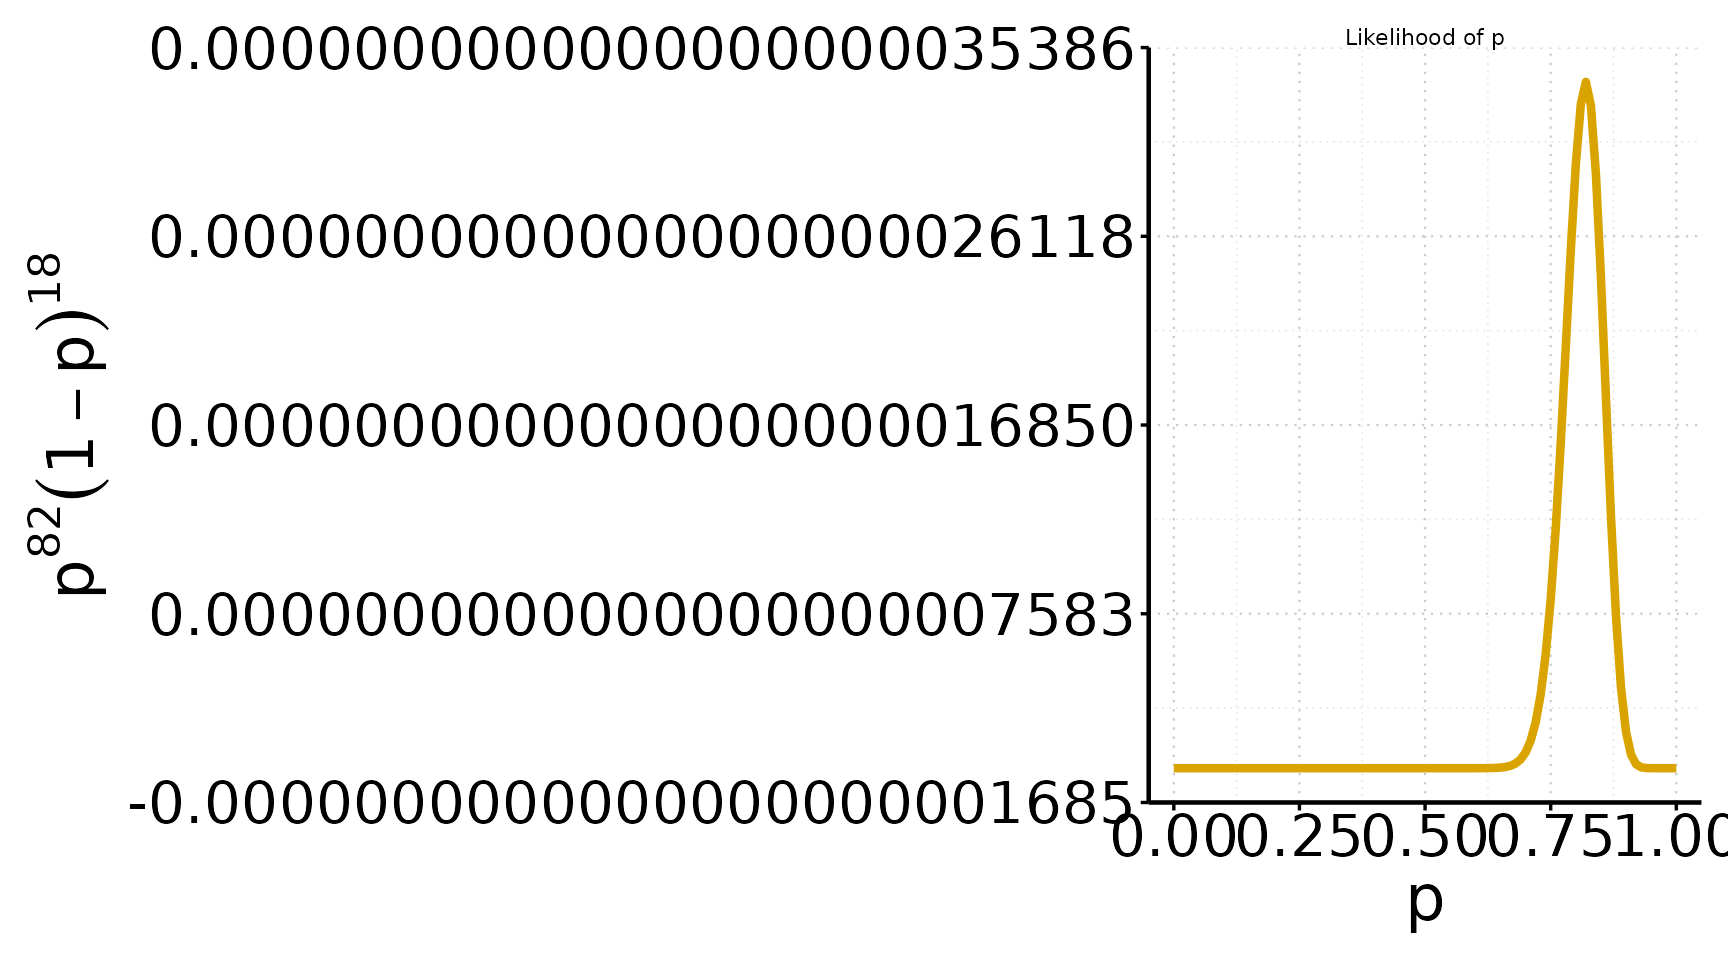
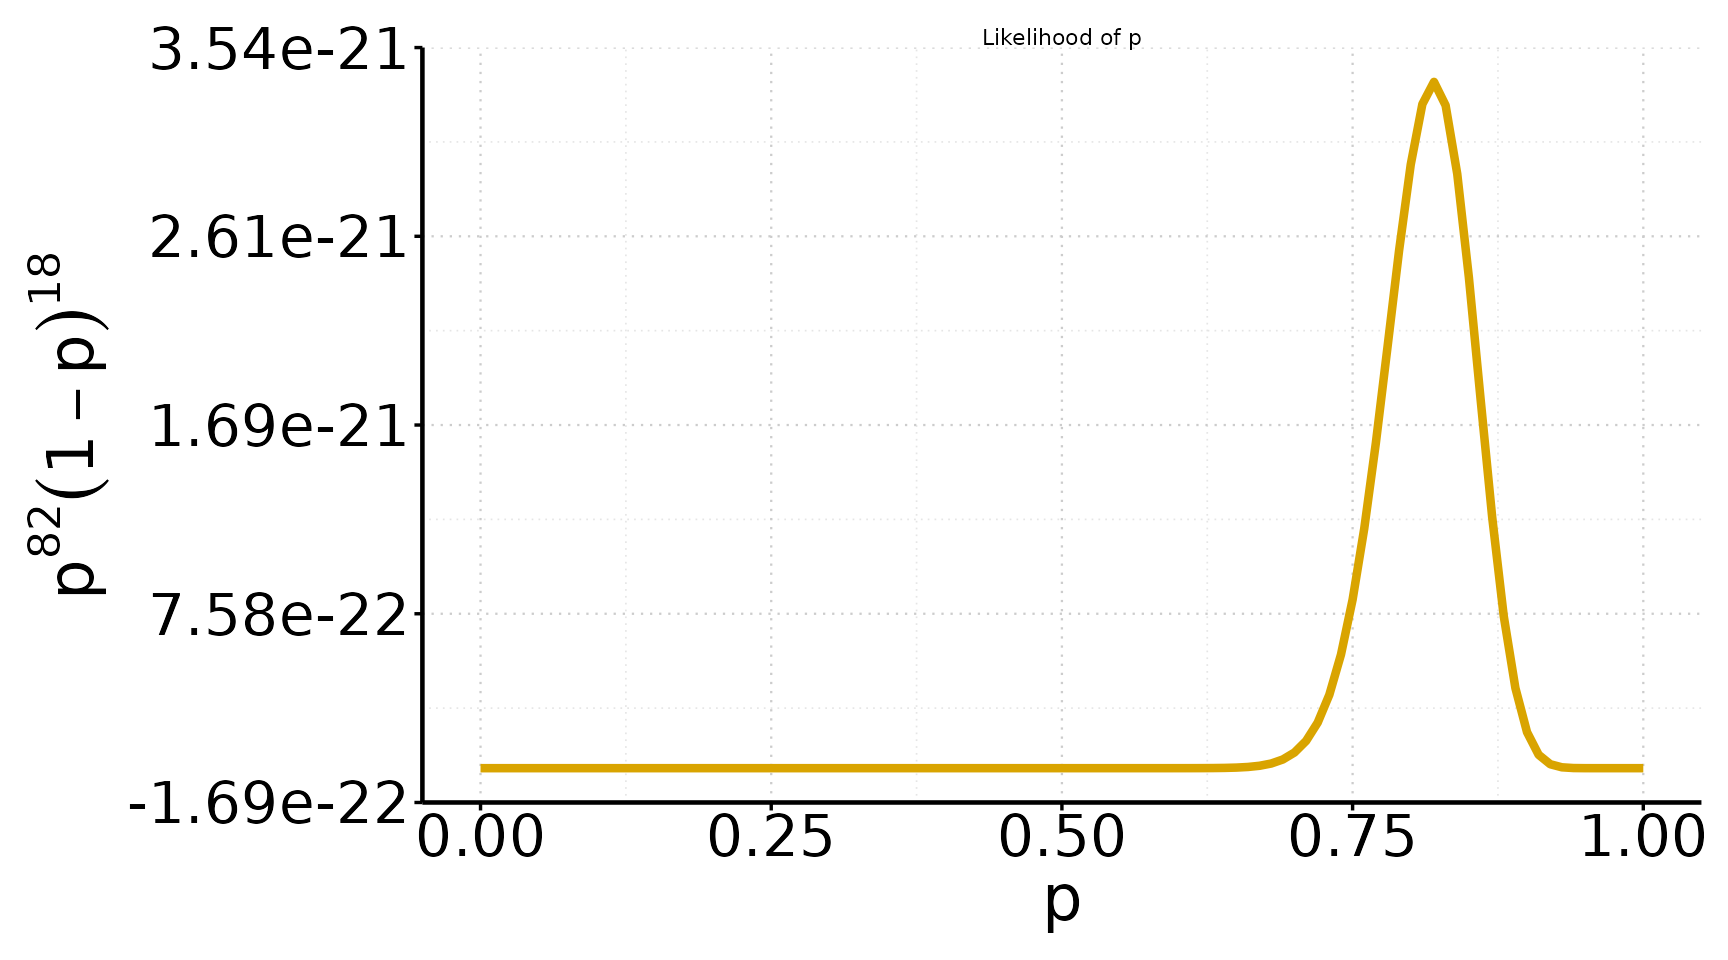
Update clases 2 y 3

diff --git a/slides/class_3/class_3.html b/slides/class_3/class_3.html
@@ -10,7 +10,7 @@
   <meta name="generator" content="quarto-1.9.38">
 
   <meta name="author" content="Mauricio Bucca · Sociología UC">
-  <meta name="dcterms.date" content="2026-07-28">
+  <meta name="dcterms.date" content="2026-08-16">
   <title>Análisis de Datos Categóricos (SOC3070)</title>
   <meta name="apple-mobile-web-app-capable" content="yes">
   <meta name="apple-mobile-web-app-status-bar-style" content="black-translucent">
@@ -32,9 +32,75 @@
       margin: 0 0.8em 0.2em -1em; /* quarto-specific, see https://github.com/quarto-dev/quarto-cli/issues/4556 */ 
       vertical-align: middle;
     }
+    /* CSS for syntax highlighting */
+    html { -webkit-text-size-adjust: 100%; }
+    pre > code.sourceCode { white-space: pre; position: relative; }
+    pre > code.sourceCode > span { display: inline-block; line-height: 1.25; }
+    pre > code.sourceCode > span:empty { height: 1.2em; }
+    .sourceCode { overflow: visible; }
+    code.sourceCode > span { color: inherit; text-decoration: inherit; }
+    div.sourceCode { margin: 1em 0; }
+    pre.sourceCode { margin: 0; }
+    @media screen {
+    div.sourceCode { overflow: auto; }
+    }
+    @media print {
+    pre > code.sourceCode { white-space: pre-wrap; }
+    pre > code.sourceCode > span { text-indent: -5em; padding-left: 5em; }
+    }
+    pre.numberSource code
+      { counter-reset: source-line 0; }
+    pre.numberSource code > span
+      { position: relative; left: -4em; counter-increment: source-line; }
+    pre.numberSource code > span > a:first-child::before
+      { content: counter(source-line);
+        position: relative; left: -1em; text-align: right; vertical-align: baseline;
+        border: none; display: inline-block;
+        -webkit-touch-callout: none; -webkit-user-select: none;
+        -khtml-user-select: none; -moz-user-select: none;
+        -ms-user-select: none; user-select: none;
+        padding: 0 4px; width: 4em;
+      }
+    pre.numberSource { margin-left: 3em;  padding-left: 4px; }
+    div.sourceCode
+      { color: #24292e;  }
+    @media screen {
+    pre > code.sourceCode > span > a:first-child::before { text-decoration: underline; }
+    }
+    code span { color: #24292e; } /* Normal */
+    code span.al { color: #ff5555; font-weight: bold; } /* Alert */
+    code span.an { color: #6a737d; } /* Annotation */
+    code span.at { color: #d73a49; } /* Attribute */
+    code span.bn { color: #005cc5; } /* BaseN */
+    code span.bu { color: #d73a49; } /* BuiltIn */
+    code span.cf { color: #d73a49; } /* ControlFlow */
+    code span.ch { color: #032f62; } /* Char */
+    code span.cn { color: #005cc5; } /* Constant */
+    code span.co { color: #6a737d; } /* Comment */
+    code span.cv { color: #6a737d; } /* CommentVar */
+    code span.do { color: #6a737d; } /* Documentation */
+    code span.dt { color: #d73a49; } /* DataType */
+    code span.dv { color: #005cc5; } /* DecVal */
+    code span.er { color: #ff5555; text-decoration: underline; } /* Error */
+    code span.ex { color: #d73a49; font-weight: bold; } /* Extension */
+    code span.fl { color: #005cc5; } /* Float */
+    code span.fu { color: #6f42c1; } /* Function */
+    code span.im { color: #032f62; } /* Import */
+    code span.in { color: #6a737d; } /* Information */
+    code span.kw { color: #d73a49; } /* Keyword */
+    code span.op { color: #24292e; } /* Operator */
+    code span.ot { color: #6f42c1; } /* Other */
+    code span.pp { color: #d73a49; } /* Preprocessor */
+    code span.re { color: #6a737d; } /* RegionMarker */
+    code span.sc { color: #005cc5; } /* SpecialChar */
+    code span.ss { color: #032f62; } /* SpecialString */
+    code span.st { color: #032f62; } /* String */
+    code span.va { color: #e36209; } /* Variable */
+    code span.vs { color: #032f62; } /* VerbatimString */
+    code span.wa { color: #ff5555; } /* Warning */
   </style>
   <link rel="stylesheet" href="class_3_files/libs/revealjs/dist/theme/quarto-2740581606dc327e82f18f789b69d8a0.css">
-  <link rel="stylesheet" href="../_shared/course.css">
+  <link rel="stylesheet" href="_shared/course.css">
   <script>window.backupDefine = window.define; window.define = undefined;</script><script src="https://cdn.jsdelivr.net/npm/katex@latest/dist/katex.min.js"></script>
   <script>document.addEventListener("DOMContentLoaded", function () {
  var mathElements = document.getElementsByClassName("math");
@@ -159,7 +225,7 @@ Mauricio Bucca · Sociología UC
 </div>
 </div>
 
-  <p class="date">2026-07-28</p>
+  <p class="date">2026-08-16</p>
 </section>
 <section id="antes-hoy-después" class="slide level2 class-rhythm">
 <h2>Antes · Hoy · Después</h2>
@@ -352,6 +418,47 @@ Mauricio Bucca · Sociología UC
 </section>
 <section id="estimación-via-maximum-likelihood-mle-5" class="slide level2 fullscreen left top text-white" data-background-image="valdorcia.jpeg">
 <h2>Estimación via Maximum Likelihood (MLE)</h2>
+</section>
+<section id="maximización-numérica-un-ejemplo" class="slide level2">
+<h2>Maximización numérica: un ejemplo</h2>
+<p>En la práctica, buscamos el máximo evaluando la función en distintos valores de <span class="math inline">p</span>, e iterando hacia donde crece:</p>
+<div class="cell">
+<div class="code-copy-outer-scaffold"><div class="sourceCode cell-code" id="cb1"><pre class="sourceCode numberSource r number-lines code-with-copy"><code class="sourceCode r"><span id="cb1-1"><a href=""></a>loglik <span class="ot">&lt;-</span> <span class="cf">function</span>(p, <span class="at">k =</span> <span class="dv">82</span>, <span class="at">n =</span> <span class="dv">100</span>) k <span class="sc">*</span> <span class="fu">log</span>(p) <span class="sc">+</span> (n <span class="sc">-</span> k) <span class="sc">*</span> <span class="fu">log</span>(<span class="dv">1</span> <span class="sc">-</span> p)</span>
+<span id="cb1-2"><a href=""></a></span>
+<span id="cb1-3"><a href=""></a>valores_p    <span class="ot">&lt;-</span> <span class="fu">seq</span>(<span class="fl">0.01</span>, <span class="fl">0.99</span>, <span class="at">by =</span> <span class="fl">0.01</span>)   <span class="co"># toda la grilla de p</span></span>
+<span id="cb1-4"><a href=""></a>resultados   <span class="ot">&lt;-</span> <span class="fu">rep</span>(<span class="cn">NA</span>, <span class="fu">length</span>(valores_p))   <span class="co"># aquí guardamos cada loglik</span></span>
+<span id="cb1-5"><a href=""></a></span>
+<span id="cb1-6"><a href=""></a><span class="cf">for</span> (i <span class="cf">in</span> <span class="fu">seq_along</span>(valores_p)) {</span>
+<span id="cb1-7"><a href=""></a>  resultados[i] <span class="ot">&lt;-</span> <span class="fu">loglik</span>(valores_p[i])      <span class="co"># evaluamos y almacenamos</span></span>
+<span id="cb1-8"><a href=""></a>}</span></code></pre></div><button title="Copy to Clipboard" class="code-copy-button"><i class="bi"></i></button></div>
+</div>
+<div class="fragment">
+<p><br></p>
+<p>Ya evaluamos toda la grilla. Ahora miramos solo la región cerca del óptimo:</p>
+<div class="cell">
+<div class="code-copy-outer-scaffold"><div class="sourceCode cell-code" id="cb2"><pre class="sourceCode numberSource r number-lines code-with-copy"><code class="sourceCode r"><span id="cb2-1"><a href=""></a>region <span class="ot">&lt;-</span> valores_p <span class="sc">&gt;=</span> <span class="fl">0.78</span> <span class="sc">&amp;</span> valores_p <span class="sc">&lt;=</span> <span class="fl">0.86</span>   <span class="co"># ¿qué posiciones nos interesan?</span></span>
+<span id="cb2-2"><a href=""></a></span>
+<span id="cb2-3"><a href=""></a><span class="fu">data.frame</span>(<span class="at">p =</span> valores_p[region], <span class="at">loglik =</span> <span class="fu">round</span>(resultados[region], <span class="dv">3</span>))</span></code></pre></div><button title="Copy to Clipboard" class="code-copy-button"><i class="bi"></i></button></div>
+<div class="cell-output cell-output-stdout">
+<pre><code>     p loglik
+1 0.780 -47.630
+2 0.790 -47.420
+3 0.800 -47.270
+4 0.810 -47.170
+5 0.820 -47.140
+6 0.830 -47.170
+7 0.840 -47.280
+8 0.850 -47.480
+9 0.860 -47.760</code></pre>
+</div>
+</div>
+</div>
+<div class="fragment">
+<p>Recorriendo los valores, el más alto se obtiene en <span class="math inline">p = 0.82</span> — exactamente <span class="math inline">\hat p = k/n</span>, tal como predijo el álgebra.</p>
+</div>
+</section>
+<section id="estimación-via-maximum-likelihood-mle-6" class="slide level2 fullscreen left top text-white" data-background-image="valdorcia.jpeg">
+<h2>Estimación via Maximum Likelihood (MLE)</h2>
 </section></section>
 <section>
 <section id="funciones-de-pérdida" class="title-slide slide level1 inverse center middle" data-background-color="#C8102E">
@@ -398,6 +505,45 @@ Mauricio Bucca · Sociología UC
 </div>
 </div>
 <p>Es exactamente <span class="math inline">-\ell\ell(\hat p)/n</span>: la misma cantidad que maximizamos arriba, reescalada y con el signo invertido.</p>
+</section>
+<section id="minimización-numérica-un-ejemplo" class="slide level2">
+<h2>Minimización numérica: un ejemplo</h2>
+<p>Mismo proceso que antes, pero ahora buscamos el <span class="math inline">p</span> que <strong>minimiza</strong> la log-loss:</p>
+<div class="cell">
+<div class="code-copy-outer-scaffold"><div class="sourceCode cell-code" id="cb5"><pre class="sourceCode numberSource r number-lines code-with-copy"><code class="sourceCode r"><span id="cb5-1"><a href=""></a>y <span class="ot">&lt;-</span> <span class="fu">c</span>(<span class="fu">rep</span>(<span class="dv">1</span>, <span class="dv">82</span>), <span class="fu">rep</span>(<span class="dv">0</span>, <span class="dv">18</span>))</span>
+<span id="cb5-2"><a href=""></a>log_loss <span class="ot">&lt;-</span> <span class="cf">function</span>(p) <span class="sc">-</span><span class="fu">mean</span>(y <span class="sc">*</span> <span class="fu">log</span>(p) <span class="sc">+</span> (<span class="dv">1</span> <span class="sc">-</span> y) <span class="sc">*</span> <span class="fu">log</span>(<span class="dv">1</span> <span class="sc">-</span> p))</span>
+<span id="cb5-3"><a href=""></a></span>
+<span id="cb5-4"><a href=""></a>valores_p  <span class="ot">&lt;-</span> <span class="fu">seq</span>(<span class="fl">0.01</span>, <span class="fl">0.99</span>, <span class="at">by =</span> <span class="fl">0.01</span>)   <span class="co"># toda la grilla de p</span></span>
+<span id="cb5-5"><a href=""></a>resultados <span class="ot">&lt;-</span> <span class="fu">rep</span>(<span class="cn">NA</span>, <span class="fu">length</span>(valores_p))   <span class="co"># aquí guardamos cada log-loss</span></span>
+<span id="cb5-6"><a href=""></a></span>
+<span id="cb5-7"><a href=""></a><span class="cf">for</span> (i <span class="cf">in</span> <span class="fu">seq_along</span>(valores_p)) {</span>
+<span id="cb5-8"><a href=""></a>  resultados[i] <span class="ot">&lt;-</span> <span class="fu">log_loss</span>(valores_p[i])  <span class="co"># evaluamos y almacenamos</span></span>
+<span id="cb5-9"><a href=""></a>}</span></code></pre></div><button title="Copy to Clipboard" class="code-copy-button"><i class="bi"></i></button></div>
+</div>
+<div class="fragment">
+<p><br></p>
+<p>Ya evaluamos toda la grilla. Ahora miramos solo la región cerca del óptimo:</p>
+<div class="cell">
+<div class="code-copy-outer-scaffold"><div class="sourceCode cell-code" id="cb6"><pre class="sourceCode numberSource r number-lines code-with-copy"><code class="sourceCode r"><span id="cb6-1"><a href=""></a>region <span class="ot">&lt;-</span> valores_p <span class="sc">&gt;=</span> <span class="fl">0.78</span> <span class="sc">&amp;</span> valores_p <span class="sc">&lt;=</span> <span class="fl">0.86</span>   <span class="co"># ¿qué posiciones nos interesan?</span></span>
+<span id="cb6-2"><a href=""></a></span>
+<span id="cb6-3"><a href=""></a><span class="fu">data.frame</span>(<span class="at">p =</span> valores_p[region], <span class="at">log_loss =</span> <span class="fu">round</span>(resultados[region], <span class="dv">3</span>))</span></code></pre></div><button title="Copy to Clipboard" class="code-copy-button"><i class="bi"></i></button></div>
+<div class="cell-output cell-output-stdout">
+<pre><code>     p log_loss
+1 0.780    0.476
+2 0.790    0.474
+3 0.800    0.473
+4 0.810    0.472
+5 0.820    0.471
+6 0.830    0.472
+7 0.840    0.473
+8 0.850    0.475
+9 0.860    0.478</code></pre>
+</div>
+</div>
+</div>
+<div class="fragment">
+<p>Recorriendo los valores, el más bajo se obtiene en <span class="math inline">p = 0.82</span>: el mismo valor que maximiza la likelihood, ahora encontrado minimizando la pérdida.</p>
+</div>
 </section>
 <section id="otras-funciones-de-pérdida" class="slide level2">
 <h2>Otras funciones de pérdida</h2>

diff --git a/slides/class_2/class_2.html b/slides/class_2/class_2.html
@@ -10,7 +10,7 @@
   <meta name="generator" content="quarto-1.9.38">
 
   <meta name="author" content="Mauricio Bucca · Sociología UC">
-  <meta name="dcterms.date" content="2026-07-28">
+  <meta name="dcterms.date" content="2026-08-16">
   <title>Análisis de Datos Categóricos (SOC3070)</title>
   <meta name="apple-mobile-web-app-capable" content="yes">
   <meta name="apple-mobile-web-app-status-bar-style" content="black-translucent">
@@ -34,7 +34,7 @@
     }
   </style>
   <link rel="stylesheet" href="class_2_files/libs/revealjs/dist/theme/quarto-2740581606dc327e82f18f789b69d8a0.css">
-  <link rel="stylesheet" href="../_shared/course.css">
+  <link rel="stylesheet" href="_shared/course.css">
   <script>window.backupDefine = window.define; window.define = undefined;</script><script src="https://cdn.jsdelivr.net/npm/katex@latest/dist/katex.min.js"></script>
   <script>document.addEventListener("DOMContentLoaded", function () {
  var mathElements = document.getElementsByClassName("math");
@@ -159,7 +159,7 @@ Mauricio Bucca · Sociología UC
 </div>
 </div>
 
-  <p class="date">2026-07-28</p>
+  <p class="date">2026-08-16</p>
 </section>
 <section id="antes-hoy-después" class="slide level2 class-rhythm">
 <h2>Antes · Hoy · Después</h2>
